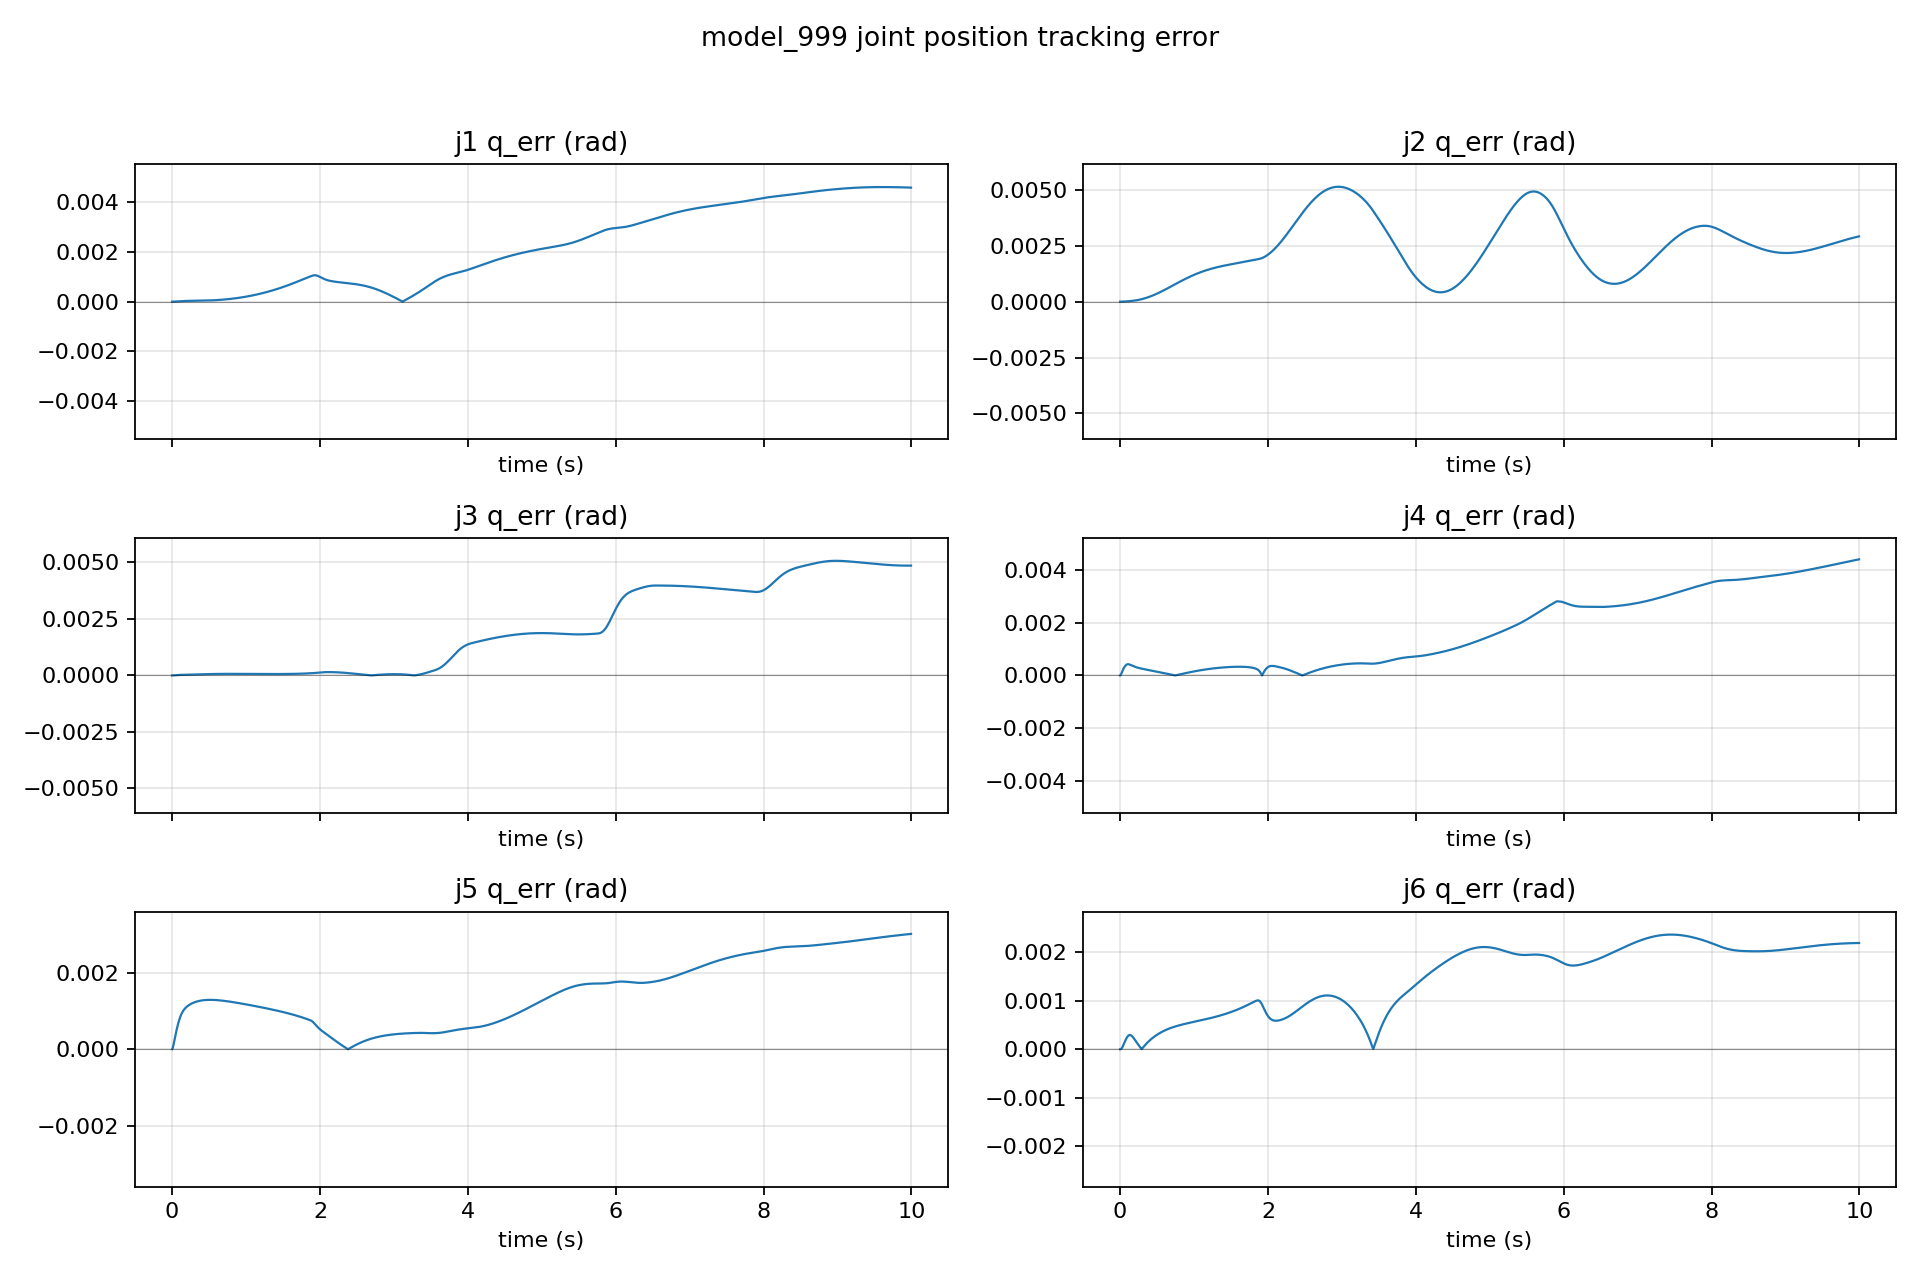
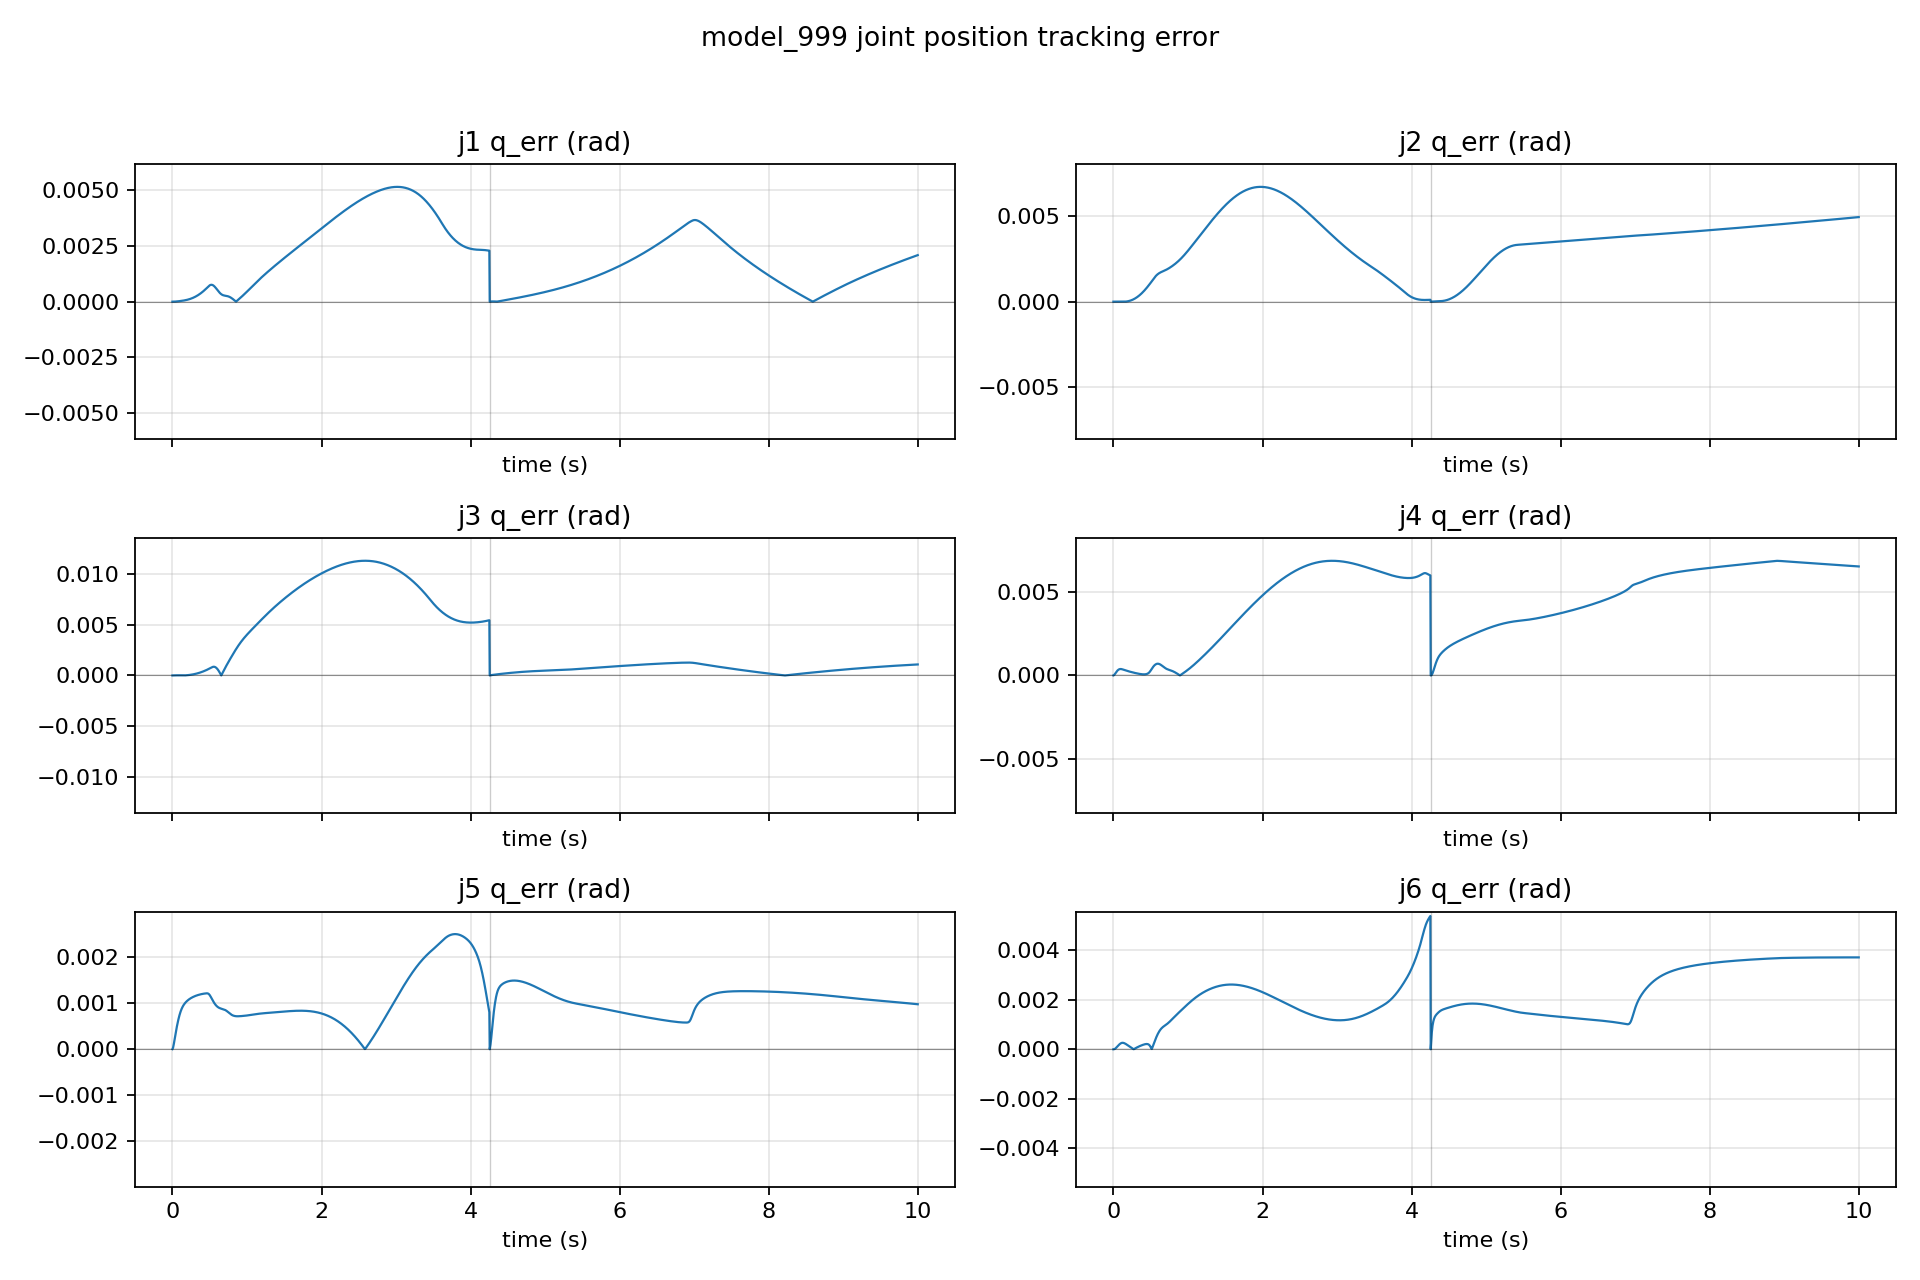
Make milestone replay deterministic with --seed

diff --git a/scripts/train_irb2400_ppo.py b/scripts/train_irb2400_ppo.py
@@ -62,6 +62,7 @@ def main() -> None:
   parser.add_argument("--action-l2-weight", type=float, default=-1e-2)
   parser.add_argument("--action-rate-weight", type=float, default=-5e-3)
   parser.add_argument("--device", type=str, default=None, help="cpu | cuda:0 | auto")
+  parser.add_argument("--seed", type=int, default=None, help="Random seed for reproducible training.")
   parser.add_argument("--max-iterations", type=int, default=1000)
   parser.add_argument("--num-steps-per-env", type=int, default=32)
   parser.add_argument("--save-interval", type=int, default=50)
@@ -85,6 +86,8 @@ def main() -> None:
   os.environ.setdefault("MUJOCO_GL", "egl")
 
   import torch
+  import random
+  import numpy as np
   from rsl_rl.runners import OnPolicyRunner
 
   from mjlab.envs import ManagerBasedRlEnv
@@ -112,6 +115,18 @@ def main() -> None:
     device = "cuda:0" if torch.cuda.is_available() else "cpu"
   else:
     device = args.device
+
+  if args.seed is not None:
+    seed = int(args.seed)
+    random.seed(seed)
+    np.random.seed(seed)
+    torch.manual_seed(seed)
+    if str(device).startswith("cuda"):
+      try:
+        torch.cuda.manual_seed_all(seed)
+      except Exception:
+        pass
+    print(f"[INFO] seed={seed}")
 
   # Actions are clipped to [-1, 1] by the vec-env wrapper.
   clip_actions = 1.0
@@ -283,7 +298,10 @@ def main() -> None:
 
   print(f"[INFO] device={device} num_envs={args.num_envs} log_dir={log_dir}")
 
-  env = ManagerBasedRlEnv(cfg=env_cfg, device=device)
+  try:
+    env = ManagerBasedRlEnv(cfg=env_cfg, device=device, seed=args.seed)
+  except TypeError:
+    env = ManagerBasedRlEnv(cfg=env_cfg, device=device)
   env = RslRlVecEnvWrapper(env, clip_actions=clip_actions)
 
   runner = OnPolicyRunner(env, asdict(agent_cfg), str(log_dir), device=device)

diff --git a/scripts/eval_irb2400_tracking.py b/scripts/eval_irb2400_tracking.py
@@ -217,6 +217,7 @@ def main() -> None:
   parser.add_argument("--device", type=str, default="auto", help="cpu | cuda:0 | auto")
   parser.add_argument("--site", type=str, default="tcp", help="Site name to evaluate: tcp | ee")
   parser.add_argument("--steps", type=int, default=2000)
+  parser.add_argument("--seed", type=int, default=None, help="Random seed for deterministic eval (affects command resampling).")
   parser.add_argument(
     "--no-friction",
     action="store_true",
@@ -273,6 +274,7 @@ def main() -> None:
 
   import numpy as np
   import torch
+  import random
   from rsl_rl.runners import OnPolicyRunner
 
   from mjlab.envs import ManagerBasedRlEnv
@@ -293,6 +295,18 @@ def main() -> None:
     device = "cuda:0" if torch.cuda.is_available() else "cpu"
   else:
     device = args.device
+
+  if args.seed is not None:
+    seed = int(args.seed)
+    random.seed(seed)
+    np.random.seed(seed)
+    torch.manual_seed(seed)
+    if str(device).startswith("cuda"):
+      try:
+        torch.cuda.manual_seed_all(seed)
+      except Exception:
+        pass
+    print(f"[INFO] seed={seed}")
 
   experiment_root = repo_root / "logs" / "rsl_rl" / "neuarm_irb2400_tracking"
 
@@ -423,7 +437,11 @@ def main() -> None:
       f" filter_tau={getattr(act_cfg,'residual_filter_tau',None)}"
     )
 
-  env = ManagerBasedRlEnv(cfg=env_cfg, device=device)
+  # Some mjlab builds accept a seed kwarg; fall back if not supported.
+  try:
+    env = ManagerBasedRlEnv(cfg=env_cfg, device=device, seed=args.seed)
+  except TypeError:
+    env = ManagerBasedRlEnv(cfg=env_cfg, device=device)
   vec_env = RslRlVecEnvWrapper(env, clip_actions=1.0)
 
   dt_s = float(getattr(env_cfg.sim.mujoco, "timestep", 0.001)) * float(getattr(env_cfg, "decimation", 1))

diff --git a/scripts/play_irb2400_tracking.py b/scripts/play_irb2400_tracking.py
@@ -101,6 +101,7 @@ def main() -> None:
   parser = argparse.ArgumentParser()
   parser.add_argument("--checkpoint", type=str, default=None, help="Path to rsl_rl model_*.pt (defaults to latest)")
   parser.add_argument("--device", type=str, default="auto", help="cpu | cuda:0 | auto")
+  parser.add_argument("--seed", type=int, default=None, help="Random seed for deterministic playback (affects command resampling).")
   parser.add_argument(
     "--no-friction",
     action="store_true",
@@ -163,11 +164,25 @@ def main() -> None:
   ensure_mjlab_on_path()
 
   import torch
+  import random
+  import numpy as np
 
   if args.device == "auto":
     device = "cuda:0" if torch.cuda.is_available() else "cpu"
   else:
     device = args.device
+
+  if args.seed is not None:
+    seed = int(args.seed)
+    random.seed(seed)
+    np.random.seed(seed)
+    torch.manual_seed(seed)
+    if str(device).startswith("cuda"):
+      try:
+        torch.cuda.manual_seed_all(seed)
+      except Exception:
+        pass
+    print(f"[INFO] seed={seed}")
 
   # Prefer native GUI when a display is available.
   if args.viewer == "auto":
@@ -326,7 +341,10 @@ def main() -> None:
   else:
     raise ValueError(f"Unsupported --camera '{args.camera}', expected world|root|link6")
 
-  env = ManagerBasedRlEnv(cfg=env_cfg, device=device)
+  try:
+    env = ManagerBasedRlEnv(cfg=env_cfg, device=device, seed=args.seed)
+  except TypeError:
+    env = ManagerBasedRlEnv(cfg=env_cfg, device=device)
   env = RslRlVecEnvWrapper(env, clip_actions=1.0)
 
   if resolved_checkpoint is None:

diff --git a/milestone_vault/friction_residual_model999/README.md b/milestone_vault/friction_residual_model999/README.md
@@ -8,9 +8,8 @@
 
 ## Metrics (eval)
 
-- Joint RMSE (rad): mean `0.002163`, p95 `0.003687`, max `0.003796`
-- TCP error (mm): mean `6.245`, p95 `10.417`, max `10.863`
-- Residual |tau| (N·m): mean `8.331`, p95 `8.569`, max `8.885`
+- Original sealed (2026-01-02): TCP mean `6.245mm`, Joint RMSE mean `0.002163rad`, Residual p95 `8.569N·m`
+- Deterministic replay (`seed=0`): TCP mean `7.707mm`, Joint RMSE mean `0.0033rad`, Residual p95 `8.586N·m`
 
 ## Plots
 
@@ -24,4 +23,3 @@
 - Train: `bash train.sh`
 - Eval: `bash eval.sh`
 - Replay (viewer): `bash play.sh`
-
